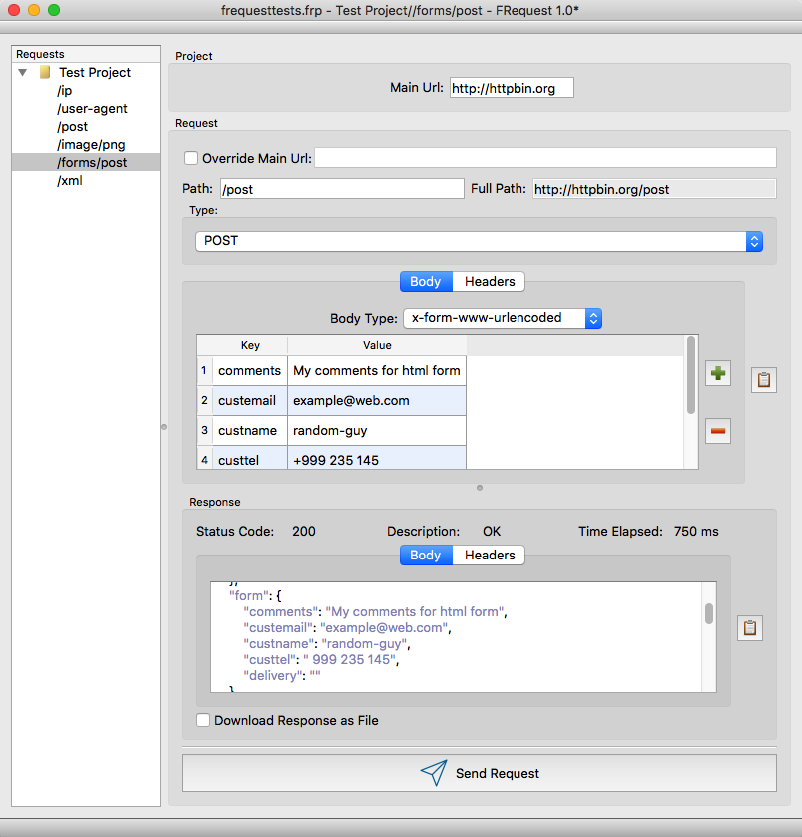
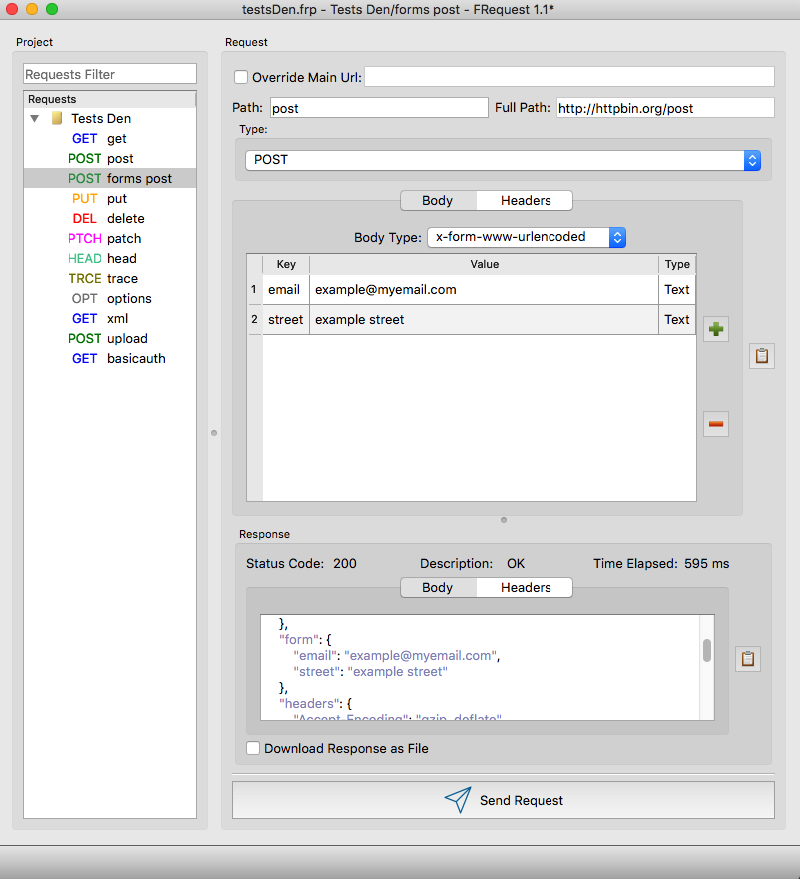
updated website to v1.1

Changed region(s): [[0.0, 0.0, 1.0, 0.994], [0.7188, 0.6213, 0.9062, 0.6523]]

diff --git a/README.md b/README.md
@@ -6,21 +6,23 @@ FRequest is a fast, lightweight and opensource Windows / MacOS desktop program t
 
 <a href="https://github.com/fabiobento512/FRequest/releases"><b>Download page</b><img src="images/download.png" alt="download frequest"><a/>
 
-The main motivation for this HTTP client program is to create a similar working software to an IDE but for HTTP(s) apis. It should be fast, 
+FRequest aims to provide a similar interface to an integrated development environment program (IDE) but for HTTP(s) apis. It should be fast, 
 cross platform, lightweight, practical with a native look. Also it is important that project files can be 
-easily shared and work seamless with Source Code Management (SCM) for collaborative work.
+easily shared and work seamless with Version Control System (VCS) for collaborative work.
 
 The current features of FRequest are:
 
 - Make GET / POST / PUT / DELETE / PATCH / HEAD / TRACE / OPTIONS HTTP(s) requests
 - Make HTTP requests with RAW / Form Data or X-Form-WWW-UrlEncoded body types
-- Analyse the request response body and headers
+- Send file uploads over the HTTP body type Form Data
+- Analyze the requests response body and headers
 - Requests are contained in a project, this project is then saved in XML file on user's desired location
 - Ability to override a project main url, so you can make requests to different domain name addresses within the same project
 - Ability to download files from the requests
-- Automatically beautify and provide syntax highlighting for JSON
-- The FRequest project files are stored in a way which allow easy collaboration via a SCM like Git, Svn or Team Foundation Server
-- Ability to add any kind of custom HTTP headers to the requests (automatically by taking the type in account or manually)
+- Automatically beautify and apply syntax highlighting for JSON and XML
+- Support for authentication (HTTP Basic authentication and Request based authentication) which can be saved either in the program configuration file (for private use) or the project file itself (for shared use)
+- The FRequest project files are stored in a way which allow easy collaboration via a VCS like Git, Svn or Team Foundation Server
+- Ability to add any kind of custom HTTP headers to the requests (automatically by taking the type in account or adding them manually)
 - Network proxy support
 
 FRequest is licensed under GPL 3.0 (https://www.gnu.org/licenses/gpl-3.0.en.html).
@@ -34,6 +36,9 @@ FRequest is licensed under GPL 3.0 (https://www.gnu.org/licenses/gpl-3.0.en.html
 
 ### FRequest preferences interface
 <a href="images/frequest-preferences-windows.png"><img src="images/frequest-preferences-windows.png" alt="frequest preferences" width="80%" height="80%"></a>
+
+### FRequest project properties interface
+<a href="images/frequest-projproperties-macos.png"><img src="images/frequest-projproperties-macos.png" alt="frequest project properties" width="80%" height="80%"></a>
 
 ### Download <a href="https://github.com/fabiobento512/FRequest/releases"><img src="images/download.png" alt="download frequest"><a/>
 
